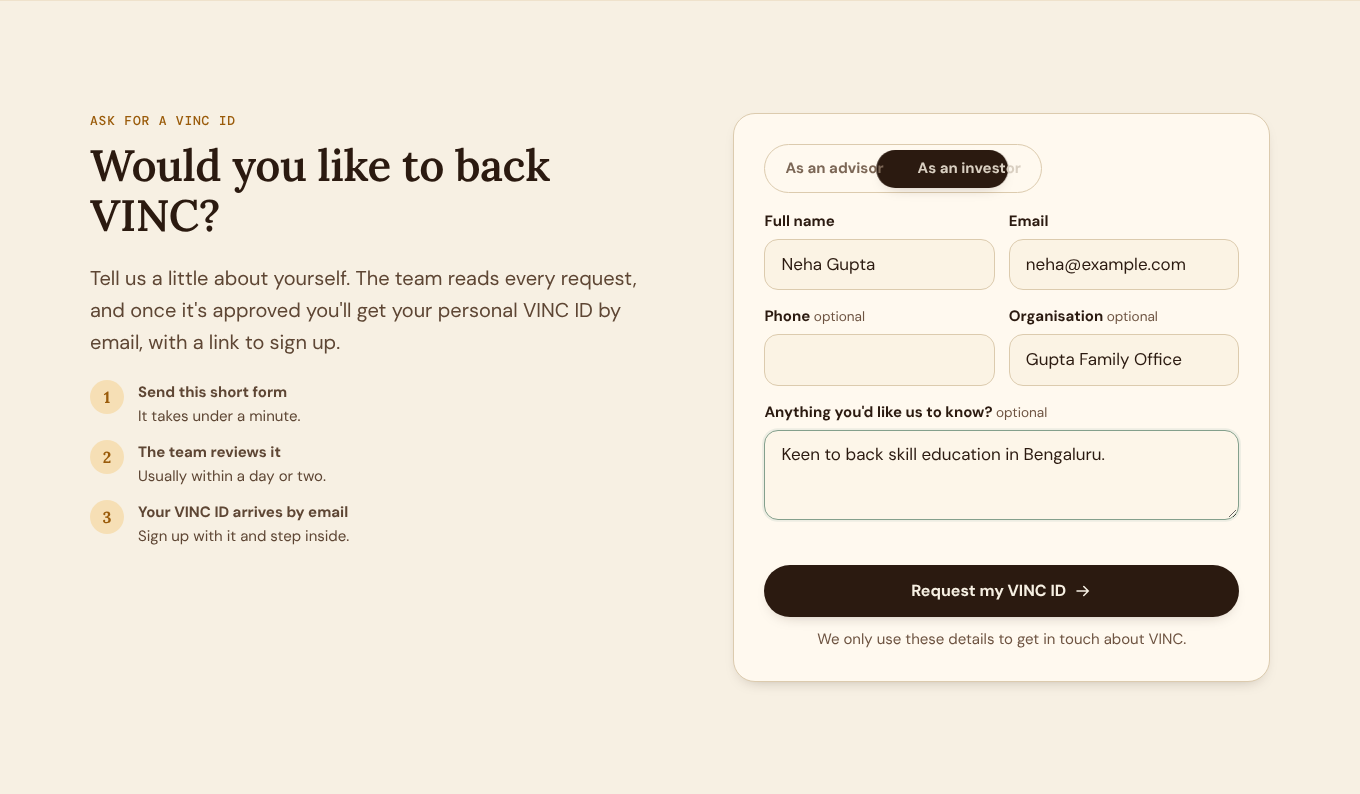
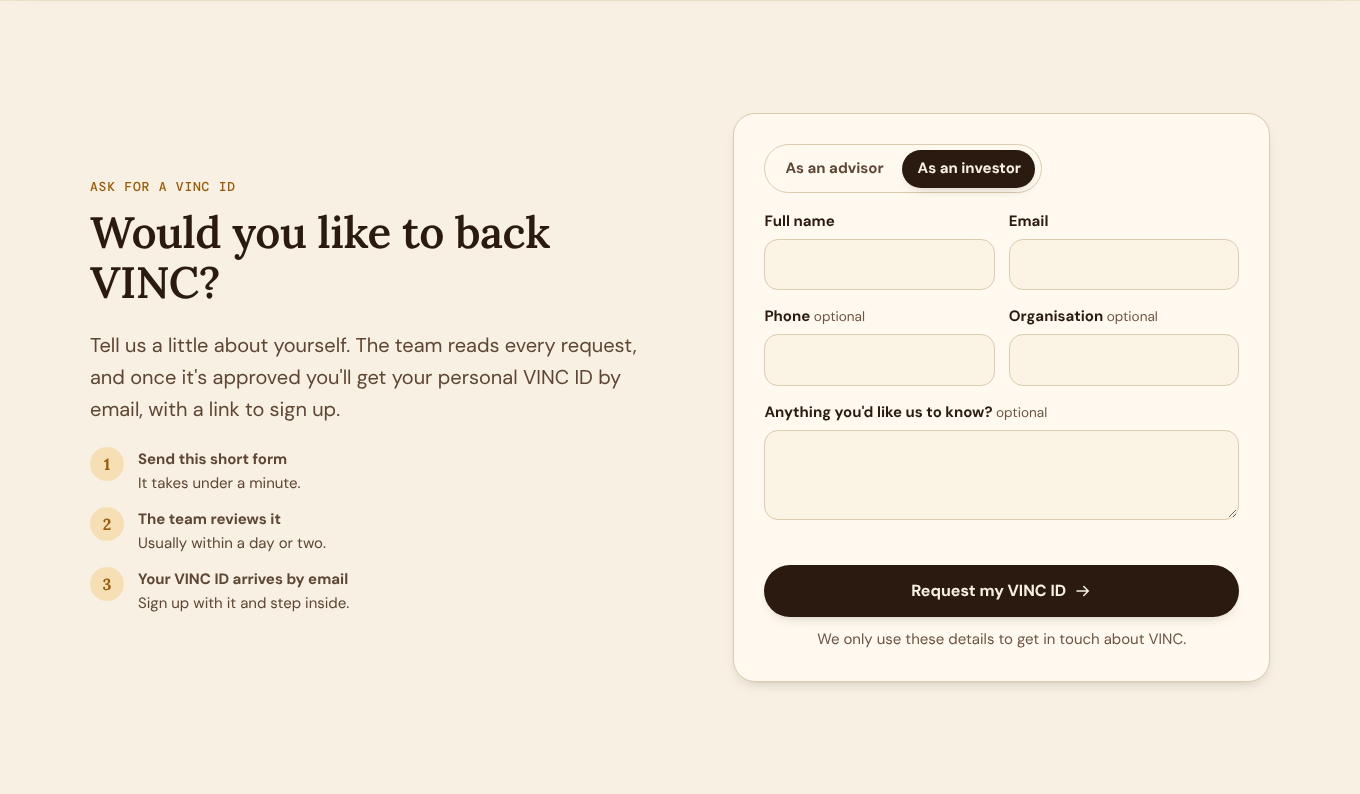
Landing: fix stale cached assets, remove website field, animate sections 2, 4, 5
- Version every CSS/JS/image link (?v=<content hash>) so browsers load the
  new files after a deploy; this is why the request form looked unstyled,
  showed the hidden field and its advisor/investor switch did nothing.
- Remove the honeypot 'Website' field; spam check is now a minimum time on
  the page plus the existing per-IP and per-email limits.
- Section 2: cards unfold in 3D, tilt toward the cursor with a light sheen,
  a light runs around the border, and the figures count up.
- Section 4: blurred cascade entrance, icons draw themselves, and a cursor
  spotlight lights the borders across the grid.
- Section 5: a comet runs along the onboarding line and lights each step,
  replaying each time the section comes into view.
- Centre the form section's left-hand text against the form.

Claude-Session: https://claude.ai/code/session_01V55PzMgCKbCTRyqbDBFc8o

diff --git a/public/css/site.css b/public/css/site.css
@@ -197,16 +197,97 @@ section { padding: clamp(64px, 9vw, 112px) 0; position: relative; }
 @media (max-width: 900px) { .auth-brand-sm { display: inline-flex; } }
 
 /* Request a VINC ID */
-.request-wrap { align-items: start; }
+.request-wrap { align-items: center; }
 .request-card { padding: clamp(20px, 3vw, 30px); }
 .rq-steps { list-style: none; margin: 22px 0 0; padding: 0; display: grid; gap: 12px; }
 .rq-steps li { display: flex; gap: 14px; align-items: flex-start; }
 .rq-steps li span { width: 34px; height: 34px; border-radius: 50%; flex: none; display: grid; place-items: center; background: var(--amber-soft); color: var(--amber-ink); font: 700 1rem var(--display); }
 .rq-steps li b { display: block; }
 .rq-steps li div { color: var(--ink-2); font-size: var(--t-small); }
-.hp { position: absolute; left: -9999px; width: 1px; height: 1px; overflow: hidden; }
 .request-done { text-align: center; padding: 18px 6px; }
 .request-done .tick { width: 88px; height: 88px; margin: 0 auto 12px; display: block; }
 .request-done .tick circle { fill: none; stroke: var(--teal); stroke-width: 5; stroke-dasharray: 290; stroke-dashoffset: 290; animation: lp-draw-c .9s var(--ease-out) forwards; }
 .request-done .tick path { fill: none; stroke: var(--amber); stroke-width: 7; stroke-linecap: round; stroke-linejoin: round; stroke-dasharray: 70; stroke-dashoffset: 70; animation: lp-draw-c .5s var(--ease-out) .7s forwards; }
 @keyframes lp-draw-c { to { stroke-dashoffset: 0; } }
+
+/* ================= Section 2 · the two platforms: 3D unfold, tilt, light sheen and a travelling border ================= */
+@property --ang { syntax: "<angle>"; inherits: false; initial-value: 0deg; }
+.platforms { perspective: 1400px; }
+.platform {
+  transform: rotateX(var(--rx, 0deg)) rotateY(var(--ry, 0deg));
+  background: radial-gradient(560px circle at var(--mx, 50%) var(--my, -20%), color-mix(in srgb, var(--f) 11%, transparent), transparent 45%), var(--card);
+  transition: transform .7s var(--ease-out), box-shadow .5s var(--ease-out);
+}
+.platform:hover { transform: rotateX(var(--rx, 0deg)) rotateY(var(--ry, 0deg)) translateY(-6px); box-shadow: var(--shadow-lg); }
+.platform.tilting { transition: transform .12s linear, box-shadow .5s var(--ease-out); }
+.platform::before { content: ""; position: absolute; inset: 0; border-radius: inherit; padding: 2px; pointer-events: none; z-index: 2;
+  background: conic-gradient(from var(--ang), transparent 0 55%, color-mix(in srgb, var(--f) 80%, transparent) 72%, var(--band-accent) 82%, transparent 94%);
+  -webkit-mask: linear-gradient(#000 0 0) content-box, linear-gradient(#000 0 0); -webkit-mask-composite: xor; mask-composite: exclude;
+  opacity: 0; transition: opacity .5s var(--ease-out); animation: pl-orbit 3.6s linear infinite; }
+.platform:hover::before, .platform.in.glint::before { opacity: 1; }
+@keyframes pl-orbit { to { --ang: 360deg; } }
+.platform.reveal { opacity: 0; translate: 0 60px; rotate: x 22deg; transform-origin: 50% 100%;
+  transition: opacity .9s var(--ease-out) var(--rd, 0ms), translate 1.1s var(--ease-out) var(--rd, 0ms), rotate 1.3s var(--ease-out) var(--rd, 0ms), transform .7s var(--ease-out), box-shadow .5s var(--ease-out); }
+.platform.reveal.in { opacity: 1; translate: 0 0; rotate: x 0deg; }
+.platform .badge-ic svg { transition: scale .5s var(--ease-spring); }
+.platform.lab .badge-ic svg { animation: pl-bob 3.2s var(--ease-in-out) infinite; transform-origin: 50% 90%; }
+.platform.lms .badge-ic svg { animation: pl-page 4s var(--ease-in-out) infinite; }
+@keyframes pl-bob { 0%, 100% { rotate: -6deg; } 50% { rotate: 6deg; } }
+@keyframes pl-page { 0%, 70%, 100% { scale: 1 1; } 80% { scale: -1 1; } 90% { scale: 1 1; } }
+.platform:hover .badge-ic svg { scale: 1.15; }
+.platform .facts div { transition: transform .5s var(--ease-out), border-color .4s ease, background-color .4s ease; }
+.platform .facts div:hover { transform: translateY(-3px); border-color: var(--f); background: color-mix(in srgb, var(--f) 7%, var(--card-2)); }
+.platform.reveal .facts div, .platform.reveal .tags .chip { opacity: 0; translate: 0 14px; transition: opacity .6s var(--ease-out), translate .7s var(--ease-out); }
+.platform.reveal.in .facts div, .platform.reveal.in .tags .chip { opacity: 1; translate: 0 0; }
+.platform.reveal.in .facts div:nth-child(1) { transition-delay: calc(var(--rd, 0ms) + 380ms); } .platform.reveal.in .facts div:nth-child(2) { transition-delay: calc(var(--rd, 0ms) + 460ms); }
+.platform.reveal.in .facts div:nth-child(3) { transition-delay: calc(var(--rd, 0ms) + 540ms); } .platform.reveal.in .facts div:nth-child(4) { transition-delay: calc(var(--rd, 0ms) + 620ms); }
+.platform.reveal.in .tags .chip { transition-delay: calc(var(--rd, 0ms) + 720ms); }
+
+/* ================= Section 4 · portal features: cascading entrance, a spotlight that follows the cursor across the grid,
+   and icons that draw themselves ================= */
+.feature { position: relative; isolation: isolate; }
+.feature::before { content: ""; position: absolute; inset: -1px; border-radius: inherit; padding: 1.5px; pointer-events: none;
+  background: radial-gradient(240px circle at var(--mx, -999px) var(--my, -999px), var(--f), transparent 70%);
+  -webkit-mask: linear-gradient(#000 0 0) content-box, linear-gradient(#000 0 0); -webkit-mask-composite: xor; mask-composite: exclude;
+  opacity: 0; transition: opacity .5s var(--ease-out); }
+.feature::after { content: ""; position: absolute; inset: 0; border-radius: inherit; z-index: -1; pointer-events: none;
+  background: radial-gradient(320px circle at var(--mx, -999px) var(--my, -999px), color-mix(in srgb, var(--f) 10%, transparent), transparent 65%);
+  opacity: 0; transition: opacity .5s var(--ease-out); }
+.features.lit .feature::before, .features.lit .feature::after { opacity: 1; }
+.feature.reveal { opacity: 0; translate: 0 34px; scale: .94; filter: blur(8px);
+  transition: opacity .8s var(--ease-out) var(--rd, 0ms), translate .9s var(--ease-out) var(--rd, 0ms), scale .9s var(--ease-out) var(--rd, 0ms), filter .8s var(--ease-out) var(--rd, 0ms),
+    transform var(--dur-3) var(--ease-out), box-shadow var(--dur-3) var(--ease-out), border-color var(--dur-2) ease; }
+.feature.reveal.in { opacity: 1; translate: 0 0; scale: 1; filter: blur(0); }
+.feature.armed .fi svg * { stroke-dasharray: 1; stroke-dashoffset: 1; }
+.feature.armed.draw .fi svg * { stroke-dashoffset: 0; transition: stroke-dashoffset 1.5s var(--ease-in-out) calc(var(--rd, 0ms) + 250ms); }
+.feature.armed.drawn .fi svg * { stroke-dasharray: none; transition: none; }
+.feature .fi { position: relative; }
+.feature .fi::after { content: ""; position: absolute; inset: -6px; border-radius: 20px; border: 1.5px solid var(--f); opacity: 0; scale: .8; }
+.feature.draw .fi::after { animation: ft-ring 1.4s var(--ease-out) calc(var(--rd, 0ms) + 1.5s) 1; }
+@keyframes ft-ring { 0% { opacity: .8; scale: .85; } 100% { opacity: 0; scale: 1.35; } }
+
+/* ================= Section 5 · onboarding: a comet runs along the line and lights each step as it passes ================= */
+.steps-wrap { position: relative; }
+.comet { position: absolute; top: 28.5px; left: 6%; width: 16px; height: 16px; margin: -8px 0 0 -8px; border-radius: 50%; z-index: 2; pointer-events: none; opacity: 0;
+  background: radial-gradient(circle, #fff 0 30%, var(--band-accent) 60%);
+  box-shadow: 0 0 0 5px color-mix(in srgb, var(--band-accent) 30%, transparent), 0 0 28px 10px color-mix(in srgb, var(--band-accent) 55%, transparent); }
+.comet::before { content: ""; position: absolute; right: 50%; top: 50%; width: 120px; height: 4px; translate: 0 -50%; border-radius: 4px;
+  background: linear-gradient(90deg, transparent, color-mix(in srgb, var(--band-accent) 85%, transparent)); }
+.steps li .n { z-index: 3; transition: background-color .5s var(--ease-out), color .5s var(--ease-out), scale .6s var(--ease-spring), box-shadow .6s var(--ease-out); }
+.steps.armed li h3, .steps.armed li p { opacity: .35; translate: 0 8px; transition: opacity .6s var(--ease-out), translate .7s var(--ease-out); }
+.steps.armed li .n { scale: .86; }
+.steps li.lit .n { background: var(--f); color: #fff; scale: 1.12; box-shadow: 0 0 0 7px color-mix(in srgb, var(--f) 18%, transparent), var(--shadow); animation: st-pop .9s var(--ease-out); }
+.steps.armed li.lit h3, .steps.armed li.lit p { opacity: 1; translate: 0 0; }
+.steps li.lit .n::after { content: ""; position: absolute; inset: -4px; border-radius: 50%; border: 2px solid var(--f); animation: st-wave 1.2s var(--ease-out) forwards; }
+@keyframes st-pop { 40% { scale: 1.3; } }
+@keyframes st-wave { from { opacity: .9; scale: 1; } to { opacity: 0; scale: 1.9; } }
+.steps.done li .n { scale: 1; }
+.steps li { transition: transform .5s var(--ease-out); }
+.steps li:hover { transform: translateY(-4px); }
+@media (max-width: 860px) { .comet { display: none; } }
+
+@media (prefers-reduced-motion: reduce) {
+  .platform.reveal, .feature.reveal { opacity: 1; translate: none; rotate: none; scale: none; filter: none; }
+  .platform::before { animation: none; }
+}
+.steps.armed::before { transition: transform var(--line-dur, 1.6s) linear; }

diff --git a/public/js/landing.js b/public/js/landing.js
@@ -2,6 +2,120 @@
   'use strict';
   const VG = window.VG;
 
+  const reduce = () => VG.reducedMotion();
+  const finePointer = () => matchMedia('(hover: hover) and (pointer: fine)').matches;
+  const onceVisible = (els, fn, threshold = 0.35) => {
+    const ob = new IntersectionObserver((entries) => entries.forEach((en) => { if (en.isIntersecting) { ob.unobserve(en.target); fn(en.target); } }), { threshold });
+    els.forEach((el) => ob.observe(el));
+  };
+
+  // Section 2: the cards unfold in 3D, tilt toward the cursor with a moving sheen, a light runs around
+  // the border once as they arrive, and the figures count up.
+  function sectionPlatforms() {
+    const cards = [...document.querySelectorAll('.platform')];
+    onceVisible(document.querySelectorAll('.facts [data-count]'), (el) => {
+      const to = Number(el.dataset.count), pre = el.dataset.prefix || '';
+      setTimeout(() => VG.countUp(el, to, { dur: 1600, format: (v) => pre + Math.round(v).toLocaleString('en-IN') }), 450);
+    }, 0.6);
+    if (reduce()) return;
+    onceVisible(cards, (card) => {
+      setTimeout(() => card.classList.add('glint'), 900);
+      setTimeout(() => card.classList.remove('glint'), 4500);
+    }, 0.3);
+    if (!finePointer()) return;
+    cards.forEach((card) => {
+      card.addEventListener('pointermove', (e) => {
+        const r = card.getBoundingClientRect();
+        const px = (e.clientX - r.left) / r.width - 0.5, py = (e.clientY - r.top) / r.height - 0.5;
+        card.classList.add('tilting');
+        card.style.setProperty('--ry', (px * 7).toFixed(2) + 'deg');
+        card.style.setProperty('--rx', (-py * 5).toFixed(2) + 'deg');
+        card.style.setProperty('--mx', (e.clientX - r.left).toFixed(0) + 'px');
+        card.style.setProperty('--my', (e.clientY - r.top).toFixed(0) + 'px');
+      });
+      card.addEventListener('pointerleave', () => {
+        card.classList.remove('tilting');
+        ['--rx', '--ry', '--mx', '--my'].forEach((k) => card.style.removeProperty(k));
+      });
+    });
+  }
+
+  // Section 4: the cards cascade in out of a blur, each icon draws itself line by line, and a spotlight
+  // follows the cursor across the whole grid, lighting the borders of neighbouring cards too.
+  function sectionFeatures() {
+    const grid = document.querySelector('.features');
+    if (!grid || reduce()) return;
+    const cards = [...grid.querySelectorAll('.feature')];
+    cards.forEach((c) => {
+      c.classList.add('armed');
+      c.querySelectorAll('.fi svg path, .fi svg circle, .fi svg rect, .fi svg line, .fi svg polyline').forEach((el) => el.setAttribute('pathLength', '1'));
+    });
+    onceVisible(cards, (c) => {
+      c.classList.add('draw');
+      const delay = parseInt(getComputedStyle(c).getPropertyValue('--rd'), 10) || 0;
+      setTimeout(() => c.classList.add('drawn'), delay + 1900);
+    }, 0.4);
+    if (!finePointer()) return;
+    grid.addEventListener('pointermove', (e) => {
+      grid.classList.add('lit');
+      for (const c of cards) {
+        const r = c.getBoundingClientRect();
+        c.style.setProperty('--mx', (e.clientX - r.left).toFixed(0) + 'px');
+        c.style.setProperty('--my', (e.clientY - r.top).toFixed(0) + 'px');
+      }
+    });
+    grid.addEventListener('pointerleave', () => grid.classList.remove('lit'));
+  }
+
+  // Section 5: a comet travels along the onboarding line and lights each step as it passes.
+  // It plays every time the section scrolls into view.
+  function sectionSteps() {
+    const wrap = document.getElementById('steps-wrap');
+    const list = document.getElementById('steps');
+    if (!wrap || !list) return;
+    const items = [...list.children];
+    const comet = wrap.querySelector('.comet');
+    if (reduce()) { list.style.setProperty('--sp', 1); return; }
+    list.classList.add('armed');
+    const DUR = 2600;
+    let timers = [], playing = false;
+    const clear = () => { timers.forEach(clearTimeout); timers = []; };
+    const reset = () => {
+      clear(); playing = false;
+      items.forEach((li) => li.classList.remove('lit'));
+      list.classList.remove('done');
+      list.style.setProperty('--line-dur', '0s');
+      list.style.setProperty('--sp', 0);
+    };
+    const play = () => {
+      if (playing) return;
+      reset();
+      playing = true;
+      const wide = matchMedia('(min-width: 861px)').matches;
+      if (wide) {
+        void getComputedStyle(list, '::before').transform;   // apply the reset before starting again
+        requestAnimationFrame(() => {
+          list.style.setProperty('--line-dur', DUR + 'ms');
+          list.style.setProperty('--sp', 1);
+          comet.animate([{ left: '6%', opacity: 0 }, { opacity: 1, offset: 0.05 }, { left: '94%', opacity: 1, offset: 0.95 }, { left: '94%', opacity: 0 }], { duration: DUR, easing: 'linear' });
+        });
+        items.forEach((li, i) => {
+          const centre = ((i + 0.5) / items.length) * 100;
+          timers.push(setTimeout(() => li.classList.add('lit'), ((centre - 6) / 88) * DUR));
+        });
+      } else {
+        list.style.setProperty('--sp', 1);
+        items.forEach((li, i) => timers.push(setTimeout(() => li.classList.add('lit'), 200 + i * 420)));
+      }
+      timers.push(setTimeout(() => { list.classList.add('done'); playing = false; }, DUR + 500));
+    };
+    const ob = new IntersectionObserver(([en]) => {
+      if (en.isIntersecting && en.intersectionRatio >= 0.55) play();
+      else if (!en.isIntersecting) reset();
+    }, { threshold: [0, 0.55] });
+    ob.observe(wrap);
+  }
+
   document.addEventListener('DOMContentLoaded', () => {
     // Mobile menu
     const menuBtn = document.getElementById('menu-btn');
@@ -60,10 +174,12 @@
       if (!en.isIntersecting) return;
       io.unobserve(en.target);
       if (en.target.classList.contains('count')) VG.countUp(en.target, Number(en.target.dataset.to), { dur: 1400 });
-      if (en.target.id === 'steps') setTimeout(() => en.target.style.setProperty('--sp', 1), 300);
     }), { threshold: 0.4 });
     document.querySelectorAll('.count').forEach((el) => io.observe(el));
-    io.observe(document.getElementById('steps'));
+
+    sectionPlatforms();
+    sectionFeatures();
+    sectionSteps();
 
     // Request a VINC ID
     const rq = document.getElementById('request-form');

diff --git a/public/index.html b/public/index.html
@@ -110,8 +110,8 @@
           </div>
           <p><b>A skills studio where students build.</b> Hands-on robotics, electronics, coding and AI for Grades 6–12 on weekends, and job-oriented career courses for undergraduates on weekdays. One centre, one roof, real projects.</p>
           <div class="facts">
-            <div><b>₹18,000</b><span>Building · Grades 6–8, per programme</span></div>
-            <div><b>₹24,000</b><span>Applied AI · Grades 9–12, per programme</span></div>
+            <div><b data-count="18000" data-prefix="₹">₹18,000</b><span>Building · Grades 6–8, per programme</span></div>
+            <div><b data-count="24000" data-prefix="₹">₹24,000</b><span>Applied AI · Grades 9–12, per programme</span></div>
             <div><b>4 × 25</b><span>weekend batches, a mentor at every bench</span></div>
             <div><b>Nov 2026</b><span>opening, with free demo classes first</span></div>
           </div>
@@ -125,9 +125,9 @@
           </div>
           <p><b>Kaushal Bodh, brought to life.</b> VINC Lab turns NCERT's Kaushal Bodh activity books into a ready-to-run skill programme: guided projects, quizzes, teacher rubrics and digital portfolios, with a dashboard for every student, parent, teacher and school.</p>
           <div class="facts">
-            <div><b>18</b><span>projects across Grades 6, 7 and 8, all live</span></div>
-            <div><b>144</b><span>guided activities with textbook pages</span></div>
-            <div><b>4</b><span>dashboards: students, parents, teachers, schools</span></div>
+            <div><b data-count="18">18</b><span>projects across Grades 6, 7 and 8, all live</span></div>
+            <div><b data-count="144">144</b><span>guided activities with textbook pages</span></div>
+            <div><b data-count="4">4</b><span>dashboards: students, parents, teachers, schools</span></div>
             <div><b>Your brand</b><span>schools run it under their own name and colours</span></div>
           </div>
           <div class="tags"><span class="chip">Auto-marked quizzes</span><span class="chip">One-tap rubrics</span><span class="chip">Kaushal Mela countdown</span></div>
@@ -181,12 +181,13 @@
         <div><p class="label">Onboarding</p><h2 id="ob-title">From invitation to data room in four steps</h2></div>
         <p>Every account is created by the VINC team. Nobody gets in without an ID from us and an approval.</p>
       </div>
-      <ol class="steps reveal" id="steps">
+      <div class="steps-wrap reveal" id="steps-wrap"><span class="comet" aria-hidden="true"></span>
+      <ol class="steps" id="steps">
         <li style="--f:var(--olive)"><span class="n">1</span><h3>Get your VINC ID</h3><p>Ask for one below. The VINC team emails you a personal ID, like <span class="mono">VG-ADV-7K3P9Q</span>.</p></li>
         <li style="--f:var(--amber)"><span class="n">2</span><h3>Sign up</h3><p>Enter your ID, your details and a password of your choice.</p></li>
         <li style="--f:var(--rust)"><span class="n">3</span><h3>Approval</h3><p>The team approves a 72-hour preview or permanent access.</p></li>
         <li style="--f:var(--plum)"><span class="n">4</span><h3>Step inside</h3><p>Data room, KYC, your portfolio and a direct line to the founder.</p></li>
-      </ol>
+      </ol></div>
     </div>
   </section>
 
@@ -228,7 +229,6 @@
             <label class="field"><span>Organisation <span class="hint">optional</span></span><input class="input" name="organisation" autocomplete="organization" maxlength="160"></label>
           </div>
           <label class="field"><span>Anything you'd like us to know? <span class="hint">optional</span></span><textarea class="input" name="message" maxlength="1500" style="min-height:90px"></textarea></label>
-          <div class="hp" aria-hidden="true"><label>Website <input name="website" tabindex="-1" autocomplete="off"></label></div>
           <p class="form-error" id="rq-err" role="alert"></p>
           <button class="btn btn-primary" type="submit" style="width:100%">Request my VINC ID <svg viewBox="0 0 24 24" fill="none" stroke="currentColor" stroke-width="2" stroke-linecap="round" class="arrow" aria-hidden="true"><path d="M4 12h15M13 6l6 6-6 6"/></svg></button>
           <p class="muted small" style="margin:10px 0 0;text-align:center">We only use these details to get in touch about VINC.</p>

diff --git a/server/index.js b/server/index.js
@@ -61,15 +61,47 @@ vendor('/vendor/pdfjs/cmaps', 'pdfjs-dist/cmaps');
 vendor('/vendor/pdfjs/standard_fonts', 'pdfjs-dist/standard_fonts');
 vendor('/vendor/chartjs', 'chart.js/dist');
 
+// Asset version: a hash of every CSS/JS/image file. Pages link to /css/x.css?v=<hash>, so after an update
+// browsers fetch the new files instead of reusing ones cached from the previous version.
+const crypto = require('node:crypto');
+const fs = require('node:fs');
+function assetVersion() {
+  const h = crypto.createHash('sha1');
+  for (const dir of ['css', 'js', 'img']) {
+    const full = path.join(PUB, dir);
+    if (!fs.existsSync(full)) continue;
+    for (const f of fs.readdirSync(full).sort()) h.update(f).update(fs.readFileSync(path.join(full, f)));
+  }
+  return h.digest('hex').slice(0, 10);
+}
+const ASSET_V = assetVersion();
+const pageCache = new Map();
+function page(file) {
+  if (!pageCache.has(file) || process.env.NODE_ENV !== 'production') {
+    const html = fs.readFileSync(path.join(PUB, file), 'utf8')
+      .replace(/(src|href)="(\/(?:css|js|img)\/[^"?#]+)"/g, `$1="$2?v=${ASSET_V}"`);
+    pageCache.set(file, html);
+  }
+  return pageCache.get(file);
+}
+
 // Pages with clean URLs.
 const pages = { '/': 'index.html', '/login': 'login.html', '/signup': 'signup.html', '/advisor': 'advisor.html', '/admin': 'admin.html' };
 for (const [route, file] of Object.entries(pages)) {
   app.get(route, (_req, res) => {
     res.setHeader('Cache-Control', 'no-cache');
-    res.sendFile(path.join(PUB, file));
+    res.type('html').send(page(file));
   });
 }
-app.use(express.static(PUB, { extensions: ['html'], maxAge: '1h' }));
+app.get(/^\/(index|login|signup|advisor|admin)\.html$/, (req, res) => res.redirect(301, req.path === '/index.html' ? '/' : req.path.replace(/\.html$/, '')));
+// Versioned files (?v=…) never change, so browsers may keep them; anything else is re-checked each time.
+app.use(express.static(PUB, {
+  extensions: ['html'],
+  setHeaders: (res, filePath) => {
+    const versioned = res.req && res.req.query && res.req.query.v;
+    res.setHeader('Cache-Control', /\.html$/.test(filePath) ? 'no-cache' : versioned ? 'public, max-age=31536000, immutable' : 'no-cache');
+  },
+}));
 app.use((_req, res) => res.status(404).sendFile(path.join(PUB, 'index.html')));
 
 // eslint-disable-next-line no-unused-vars

diff --git a/test/email.test.js b/test/email.test.js
@@ -81,9 +81,9 @@ test('ID, approval, updates and requests all send the right emails', async () =>
   assert.deepEqual(m.map((x) => x.kind), ['investment']);
 
   // Public "Request a VINC ID": acknowledgement + admin notice; then the admin turns it into an ID
-  const bad = await visitor('POST', '/api/auth/request-id', { name: 'X', email: 'not-an-email' });
+  const bad = await visitor('POST', '/api/auth/request-id', { name: 'X', email: 'not-an-email', elapsed: 9000 });
   assert.equal(bad.status, 400);
-  const bot = await visitor('POST', '/api/auth/request-id', { name: 'Bot', email: 'bot@example.com', website: 'http://spam' });
+  const bot = await visitor('POST', '/api/auth/request-id', { name: 'Bot', email: 'bot@example.com', elapsed: 300 });
   assert.equal(bot.status, 200);
   const ok = await visitor('POST', '/api/auth/request-id', { name: 'Neha Gupta', email: 'neha@example.com', organisation: 'Gupta Family Office', role: 'investor', message: 'Keen to support', elapsed: 9000 });
   assert.equal(ok.status, 200);
@@ -91,7 +91,7 @@ test('ID, approval, updates and requests all send the right emails', async () =>
   m = mails();
   assert.deepEqual(m.map((x) => x.to).sort(), ['founder@example.com', 'neha@example.com']);
   const reqs = await admin('GET', '/api/admin/requests');
-  assert.equal(reqs.body.length, 1, 'the honeypot request was not stored');
+  assert.equal(reqs.body.length, 1, 'the too-fast request was not stored');
   assert.equal((await admin('GET', '/api/admin/stats')).body.requests, 1);
   const made = await admin('POST', `/api/admin/requests/${reqs.body[0].id}/approve`, {});
   assert.match(made.body.uid, /^VG-INV-/);

diff --git a/server/routes-auth.js b/server/routes-auth.js
@@ -85,13 +85,12 @@ r.post('/request-renewal', A.requireAuth, (req, res) => {
   res.json({ user: A.publicUser(db.prepare('SELECT * FROM users WHERE id = ?').get(u.id)) });
 });
 
-// Public "Request a VINC ID" form. Spam guards: a hidden honeypot field, a minimum time on the page,
-// a per-IP limit, and one open request per email address.
+// Public "Request a VINC ID" form. Spam guards: the form must have been open for a few seconds (sent by
+// the page's script, so scripted posts without it are dropped), a per-IP limit, and one open request per email.
 const reqHits = new Map();
 r.post('/request-id', (req, res) => {
   const b = req.body || {};
-  if (b.website) return res.json({ ok: true });                       // honeypot: bots fill every field
-  if (Number(b.elapsed) > 0 && Number(b.elapsed) < 2500) return res.json({ ok: true });
+  if (!(Number(b.elapsed) >= 2500)) return res.json({ ok: true });   // looks automated: accept quietly, store nothing
   const now = Date.now();
   const hits = (reqHits.get(req.ip) || []).filter((t) => t > now - 3600000);
   if (hits.length >= 5) return res.status(429).json({ error: 'Too many requests from your connection. Please try again later.' });
